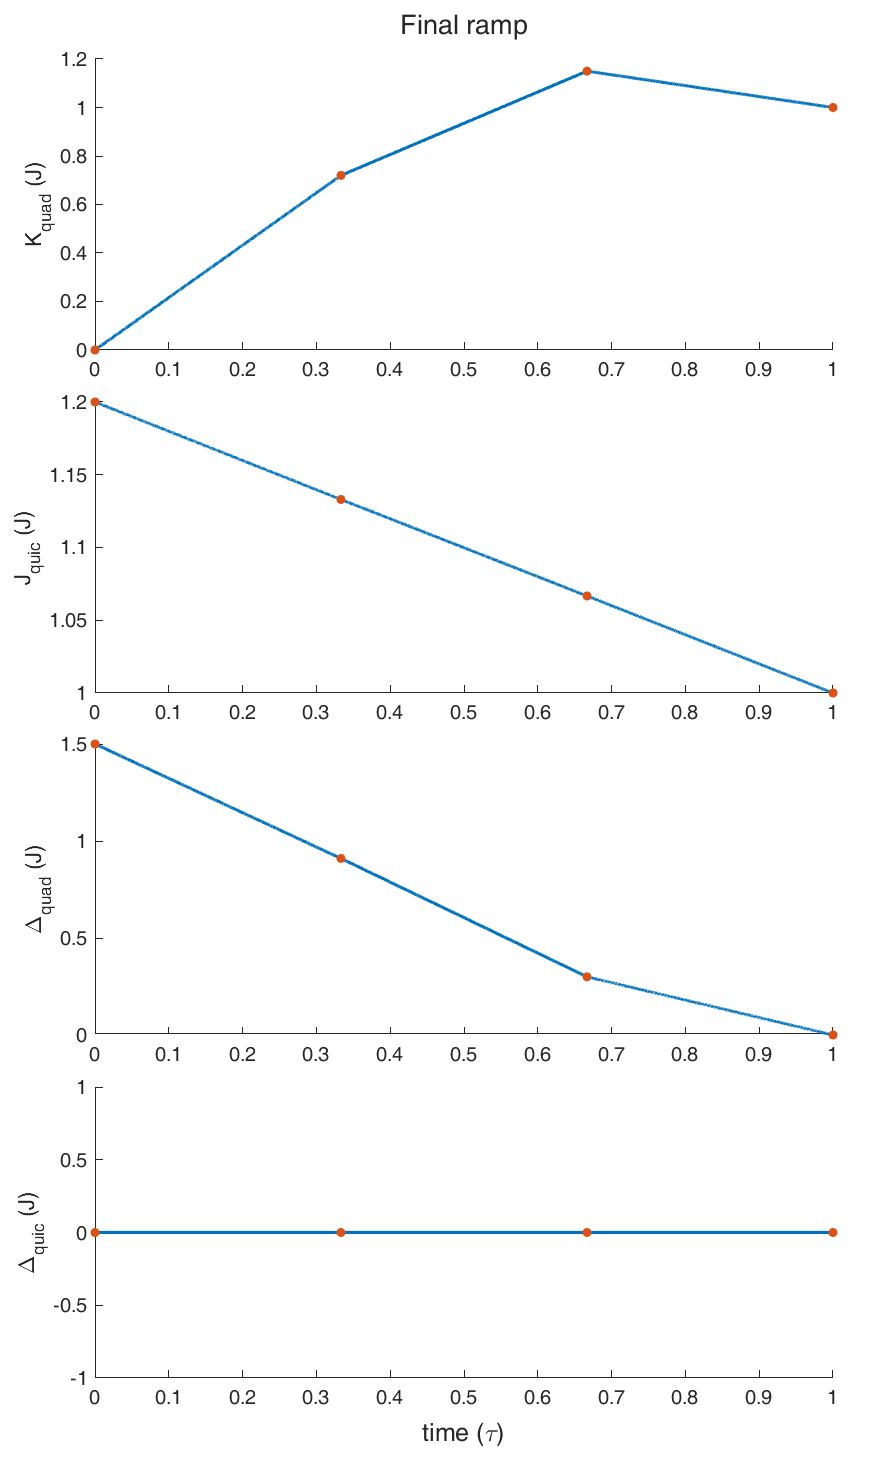
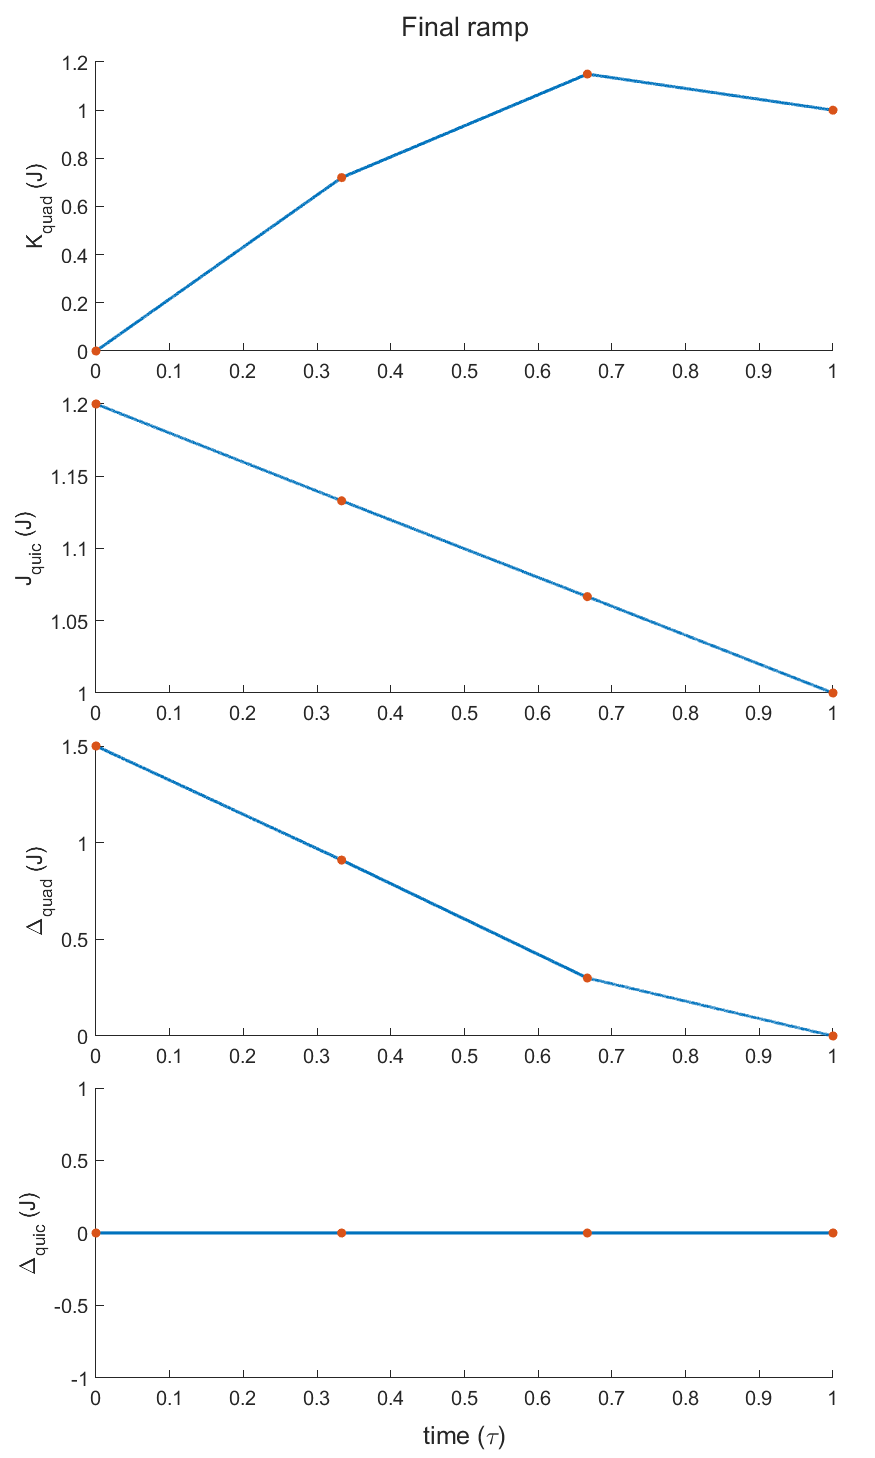
updated ramp to switch between gauge and 2D1 power

diff --git a/Timeline/Analysis/2024_05_22_Tizian_adiabatic_ramp_conversion_test/convert_ramp_files/convert_ramp_to_single_files.m b/Timeline/Analysis/2024_05_22_Tizian_adiabatic_ramp_conversion_test/convert_ramp_files/convert_ramp_to_single_files.m
@@ -426,7 +426,7 @@ ramp_DVy_comb = [ramp_times_new', ramp_DVy_new'];
 % Plot
 %%%%%%%%%%%%%%%%%
 plot_figure = 1;
-save_figure = 0;
+save_figure = 1;
 %%%%%%%%%%%%%%%%%
 if plot_figure
     clear ax
@@ -450,7 +450,7 @@ if plot_figure
     ylabel('\Delta_{quic} PS5 voltage (V)')
 
     xlabel(t, 'time (\tau)')
-    title(t, 'Final voltage ramp')
+    title(t, 'Full final voltage ramps')
     linkaxes(ax, 'x')
 
     if save_figure
@@ -485,11 +485,11 @@ if plot_figure
     ylabel('\Delta_{quic} PS5 voltage (V)')
 
     xlabel(t, 'time (\tau)')
-    title(t, 'Final voltage ramp')
+    title(t, 'Normalized final voltage ramps')
     linkaxes(ax, 'x')
 
     if save_figure
-        print('Ramp_final', '-dpng')
+        print('Ramp_final_norm', '-dpng')
     end
 end
 
